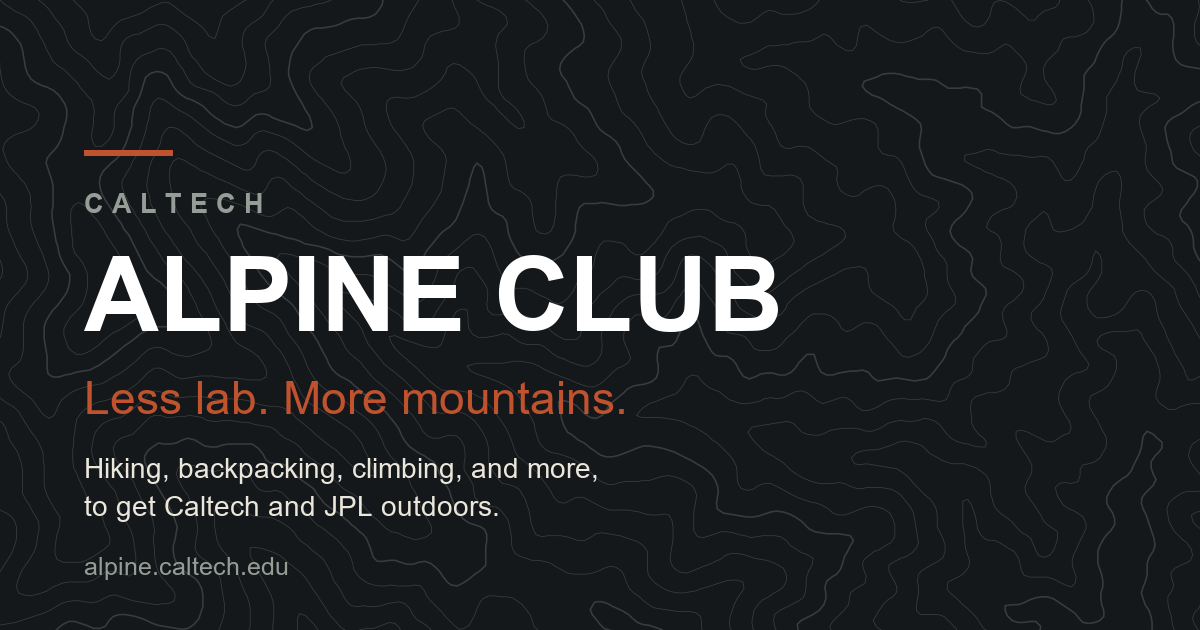
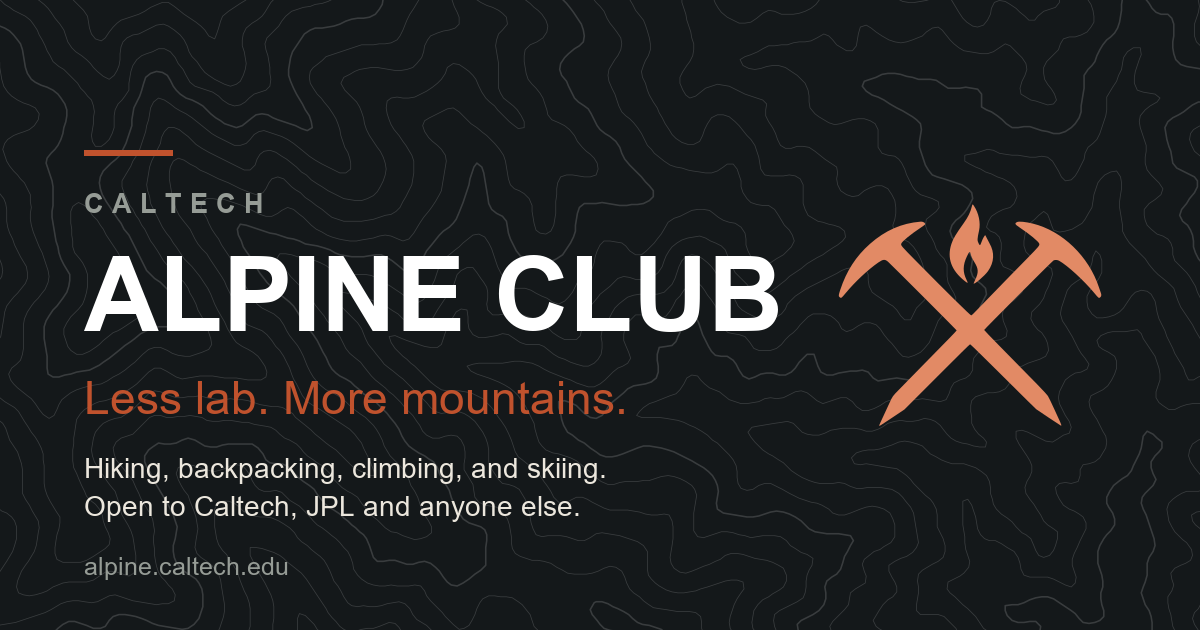
Add the club mark: crossed ice axes under a flame
Traced from the artwork with potrace into a single path (saturation
threshold, 2px gaussian, alphamax 1.0, opttolerance 0.6). Measured rather
than eyeballed: it disagrees with the source raster on 1.80% of the
mark's pixels, and by 1.0/255 when both render at 32px, which is the size
that decides whether a favicon reads.

Recoloured to the site's own tokens instead of the artwork's brighter
orange, which would have put a second orange in a palette whose contrast
ratios are documented and gated. Both places the site shows the mark are
ink, so logo.svg is accent-on-dark (#e28a65, 6.86:1) and logo-on-light.svg
is alpenglow (#be512d, 4.42:1 on paper) for anything pale.

logo.svg is the source of record; favicon.svg insets it on a rounded ink
tile, and tools/make_icons.py derives the apple-touch-icon, the 32px PNG
fallback and logo-512.png from it. iOS ignores an SVG icon for a home
screen bookmark, which is why the raster had to exist.

Also: the link preview now carries the mark, and its second line no
longer says the club exists 'to get Caltech and JPL outdoors' when
membership is open to anyone.

Deleted ice-axe.svg, the placeholder, along with its fallback branch and
its CSS rule. A fallback pointing at a file nobody keeps is a broken
image waiting for somebody to clear site.logo.

Changed region(s): [[0.6783, 0.3317, 0.925, 0.6635], [0.0617, 0.7238, 0.4933, 0.8444]]

diff --git a/assets/css/style.css b/assets/css/style.css
@@ -569,9 +569,8 @@ h1, h2, h3, h4 {
   padding-block: .55rem;
 }
 .brand__logo { width: 2.1rem; height: 2.1rem; }
-/* The mark's color lives in assets/images/ice-axe.svg, not here: it is loaded
+/* The mark's color lives in assets/images/logo.svg, not here: it is loaded
    with <img>, so it cannot inherit anything from this stylesheet. */
-.brand__logo--placeholder { opacity: .95; }
 .brand__text { display: grid; line-height: 1.05; }
 .brand__caltech {
   font-size: .64rem;

diff --git a/tools/make_social.py b/tools/make_social.py
@@ -14,11 +14,12 @@
  by 630, people visible — and the site uses that instead automatically. This
  exists so the site is never bare while you find one.
 
- Requires: pillow, svglib, reportlab, rlPyCairo (only to run the script; the
- output PNG is committed, so nobody else needs them).
+ Requires: pillow, svglib, reportlab, rlPyCairo, cairosvg (only to run the
+ script; the output PNG is committed, so nobody else needs them).
 =============================================================================
 """
 
+import io
 import os
 
 from PIL import Image, ImageDraw, ImageFont
@@ -33,6 +34,26 @@ INK = (20, 24, 26)
 PAPER = (236, 231, 221)
 MUTED = (150, 156, 150)
 ALPENGLOW = (192, 82, 45)
+ACCENT_ON_DARK = (226, 138, 101)   # the mark's colour, 6.86:1 on INK
+
+
+def mark_layer(size):
+    """The club mark, rasterised from assets/images/logo.svg.
+
+    Imported here rather than at module scope: cairosvg is the one dependency
+    this script has that is awkward to install, and the rest of the image is
+    still worth generating without it.
+    """
+    svg = os.path.join(IMAGES, "logo.svg")
+    if not os.path.exists(svg):
+        return None
+    try:
+        import cairosvg
+    except ImportError:
+        print("  note: cairosvg missing, so the mark is omitted")
+        return None
+    png = cairosvg.svg2png(url=svg, output_width=size, output_height=size)
+    return Image.open(io.BytesIO(png)).convert("RGBA")
 
 
 def font(size, bold=False):
@@ -108,10 +129,17 @@ def main():
 
     d.text((x, 372), "Less lab. More mountains.", font=font(46), fill=ALPENGLOW)
 
-    d.text((x, 452), "Hiking, backpacking, climbing, and more,", font=font(28), fill=PAPER)
-    d.text((x, 490), "to get Caltech and JPL outdoors.", font=font(28), fill=PAPER)
+    # NOT "to get Caltech and JPL outdoors": membership is open to anyone, and
+    # this image is the first thing somebody sees when a link is pasted.
+    d.text((x, 452), "Hiking, backpacking, climbing, and skiing.", font=font(28), fill=PAPER)
+    d.text((x, 490), "Open to Caltech, JPL and anyone else.", font=font(28), fill=PAPER)
 
     d.text((x, 552), "alpine.caltech.edu", font=font(25), fill=MUTED)
+
+    # The mark, on the right, clear of the longest line of text above.
+    mark = mark_layer(280)
+    if mark is not None:
+        img.paste(mark, (W - 280 - 90, (H - 280) // 2), mark)
 
     img.save(OUT, "PNG", optimize=True)
     print("  wrote %s (%.0f KB, %dx%d)"

diff --git a/tools/make_icons.py b/tools/make_icons.py
@@ -1,0 +1,66 @@
+#!/usr/bin/env python3
+"""
+=============================================================================
+ make_icons.py — raster icons, derived from the SVGs so they cannot drift.
+=============================================================================
+
+     python tools/make_icons.py
+
+ Writes, from assets/images/favicon.svg and assets/images/logo.svg:
+
+     assets/images/apple-touch-icon.png   180x180, iOS home screen
+     assets/images/favicon-32.png          32x32, older browsers
+     assets/images/logo-512.png           512x512, transparent, on-dark colour
+
+ WHY THESE EXIST AT ALL, given the SVG favicon works everywhere modern:
+
+   * iOS ignores rel="icon" with an SVG and will not use one for a home-screen
+     bookmark. Without a PNG apple-touch-icon it screenshots the page instead,
+     which is unreadable at that size.
+   * Slack, Google Calendar, GitHub org avatars and print shops all want a
+     raster. logo-512.png is the one to hand somebody who asks for "the logo".
+
+ The SVGs are the source of record. Edit those, then re-run this; do not edit
+ a PNG by hand, because the next run overwrites it.
+
+ Requires: cairosvg, pillow. The outputs are committed, so nobody else needs
+ them installed.
+=============================================================================
+"""
+
+import os
+
+import cairosvg
+from PIL import Image
+
+HERE = os.path.dirname(os.path.abspath(__file__))
+ROOT = os.path.dirname(HERE)
+IMAGES = os.path.join(ROOT, "assets", "images")
+
+JOBS = [
+    ("favicon.svg", "apple-touch-icon.png", 180),
+    ("favicon.svg", "favicon-32.png", 32),
+    ("logo.svg", "logo-512.png", 512),
+]
+
+
+def main():
+    for src, out, size in JOBS:
+        src_path = os.path.join(IMAGES, src)
+        out_path = os.path.join(IMAGES, out)
+        if not os.path.exists(src_path):
+            print("  SKIP  %s is missing" % src)
+            continue
+
+        cairosvg.svg2png(url=src_path, write_to=out_path,
+                         output_width=size, output_height=size)
+
+        # Pillow's optimizer beats cairo's writer by roughly half on flat art.
+        Image.open(out_path).save(out_path, "PNG", optimize=True)
+
+        print("  wrote %-22s %3dx%-3d  %5.1f KB  from %s"
+              % (out, size, size, os.path.getsize(out_path) / 1024.0, src))
+
+
+if __name__ == "__main__":
+    main()

diff --git a/includes/header.php b/includes/header.php
@@ -64,7 +64,11 @@ $navItems = require __DIR__ . '/nav.php';
 <?php endif; ?>
 
 <link rel="icon" href="<?= e(asset('images/favicon.svg')) ?>" type="image/svg+xml">
-<link rel="apple-touch-icon" href="<?= e(asset('images/favicon.svg')) ?>">
+<?php /* iOS ignores an SVG icon and will not use one for a home-screen
+         bookmark, so the touch icon has to be a raster. Both are generated
+         from favicon.svg by tools/make_icons.py. */ ?>
+<link rel="apple-touch-icon" href="<?= e(asset('images/apple-touch-icon.png')) ?>">
+<link rel="icon" href="<?= e(asset('images/favicon-32.png')) ?>" sizes="32x32" type="image/png">
 
 <meta property="og:type" content="website">
 <meta property="og:site_name" content="<?= e(cfg('site.name')) ?>">
@@ -124,12 +128,11 @@ $ogImage = alpine_has_image('social.jpg') ? 'images/social.jpg'
       <?php if (cfg('site.logo') && alpine_has_image(cfg('site.logo'))): ?>
         <img class="brand__logo" src="<?= e(asset('images/' . cfg('site.logo'))) ?>"
              alt="<?= e(cfg('site.logo_alt')) ?>" width="40" height="40">
-      <?php else: ?>
-        <?php /* Placeholder mark until the real logo lands. Set site.logo in
-                 includes/config.php and this swaps automatically. */ ?>
-        <img class="brand__logo brand__logo--placeholder"
-             src="<?= e(asset('images/ice-axe.svg')) ?>" alt="" width="40" height="40" aria-hidden="true">
       <?php endif; ?>
+      <?php /* No fallback image. This used to point at a placeholder ice-axe
+               mark, which was deleted when the real logo landed; a fallback
+               that names a file nobody keeps is a broken image waiting for
+               somebody to clear site.logo. The wordmark below stands alone. */ ?>
       <span class="brand__text">
         <span class="brand__caltech">Caltech</span>
         <span class="brand__name">Alpine Club</span>

diff --git a/includes/config.php b/includes/config.php
@@ -34,10 +34,14 @@ return array(
                        . 'Anyone can join.',
         'url'         => 'https://alpine.caltech.edu',
 
-        // Drop a logo file in assets/images/ and put its name here. Leave it
-        // empty and the header shows a clean wordmark instead — which looks
-        // deliberate, so there is no rush.
-        'logo'        => '',
+        // The club mark: two crossed ice axes under a flame. It is drawn in
+        // the accent-on-dark colour because the only two places the site shows
+        // it (the masthead and the footer) are both ink. assets/images/
+        // logo-on-light.svg is the same mark for a pale background.
+        //
+        // Leave this empty and the header falls back to the wordmark alone,
+        // which still looks deliberate.
+        'logo'        => 'logo.svg',
         'logo_alt'    => 'Caltech Alpine Club',
     ),
 

diff --git a/includes/footer.php b/includes/footer.php
@@ -6,7 +6,7 @@
   <div class="wrap site-footer__inner">
 
     <div class="site-footer__brand">
-      <img class="site-footer__mark" src="<?= e(asset('images/ice-axe.svg')) ?>"
+      <img class="site-footer__mark" src="<?= e(asset('images/logo.svg')) ?>"
            alt="" width="32" height="32" aria-hidden="true">
       <?php /* ONE LINE. This block identifies the site to somebody who has
                scrolled to the bottom; it is not a second About page. "Founded

diff --git a/README.md b/README.md
@@ -335,11 +335,38 @@ email link instead of a dead Slack button.
 requests from outside Caltech and JPL land, and an unanswered join request is
 the worst kind of broken link.
 
-### To change the logo
+### The logo
 
-Put the file in `assets/images/` and set `site.logo` in `includes/config.php` to
-its filename. Until then the header shows a placeholder ice axe next to the
-wordmark. `assets/images/favicon.svg` is the browser tab icon and is separate.
+The club mark is two crossed ice axes under a flame, and it lives in exactly one
+place: **`assets/images/logo.svg`**, a single path in the accent-on-dark colour.
+Everything else is generated from it, so nothing can drift out of step.
+
+| File | What it is |
+|---|---|
+| `logo.svg` | the mark, on-dark colour. Masthead and footer. The source of record |
+| `logo-on-light.svg` | the same path in the darker accent, for a pale background |
+| `favicon.svg` | the mark inset on a rounded ink tile, for the browser tab |
+| `apple-touch-icon.png`, `favicon-32.png`, `logo-512.png` | rasters, written by `tools/make_icons.py` |
+| `social-default.png` | the link preview, written by `tools/make_social.py` |
+
+**To change the mark:** replace the path in `logo.svg` and `logo-on-light.svg`,
+then run both generators:
+
+```bash
+python tools/make_icons.py
+python tools/make_social.py
+```
+
+Do not edit a PNG by hand; the next run of either script overwrites it.
+
+**Why two colour files rather than `currentColor`:** both are loaded with
+`<img>`, and an SVG used as an image has no parent to inherit from, so
+`currentColor` there resolves to black. The colours are hardcoded and are
+recorded in each file's comment. If you change the `alpenglow` or
+`accent-on-dark` token in `assets/css/style.css`, change them to match.
+
+Setting `site.logo` in `includes/config.php` to an empty string removes the mark
+from the masthead and leaves the wordmark, which still looks deliberate.
 
 ### To deploy
 
